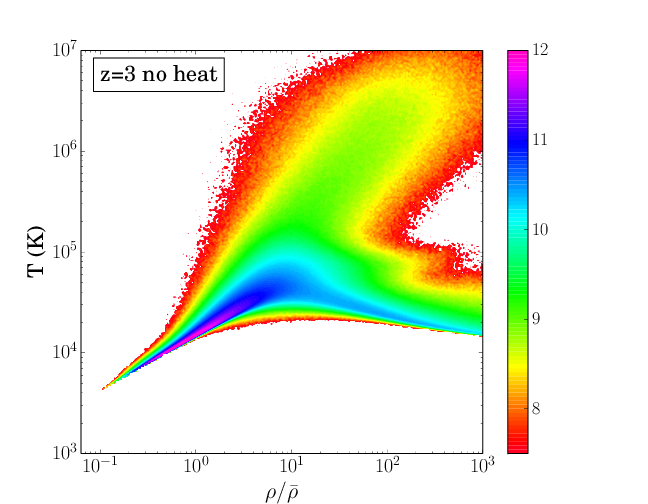
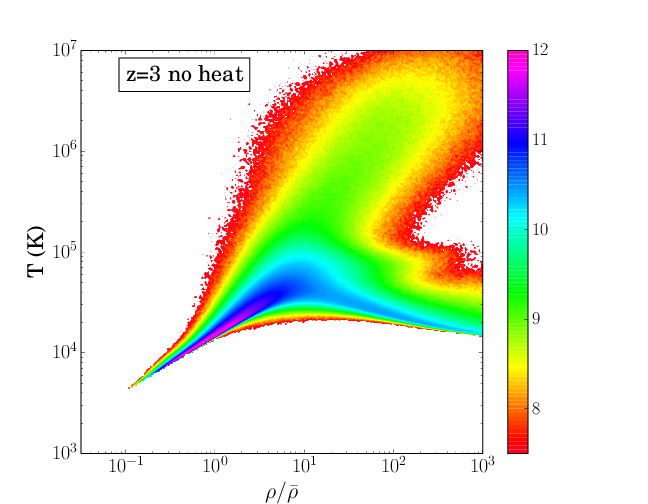
AL:update some fig with high resolution

diff --git a/window.tex b/window.tex
@@ -301,8 +301,8 @@ Substituting Eqs.~\eqref{eq:mean_heat} and \eqref{eq:mean_free_path} into Eq.~\e
 
 \begin{figure}[h]
 \centering
-% \includegraphics[width = .45\textwidth ]{window_gal_qso}
-\includegraphics[width = .45\textwidth ]{window_gal_qso}
+ \includegraphics[width = .45\textwidth ]{window_gal_qso}
+
 \caption{Window function for TeV blazar heating from $z=1$ (solid lines), $z=2$ (dashed lines) and $z=4$ (dotted lines) for the galaxy bias model (red) and the quasar bias model (blue).  The arrows indicate the minimal and maximal \ALc{comoving} wavenumber modeled in the simulation.}
 \label{fig:window}
 \end{figure}
@@ -365,17 +365,17 @@ The probability distribution function clearly highlights the impact of clusterin
 % \includegraphics[width = .42\textwidth ]{T_rho_z1_gal2_ok.png}
 % \includegraphics[width = .42\textwidth ]{T_rho_z1_qso4_ok.png}
 \includegraphics[trim=.5cm 0cm 3cm .5cm, clip ,width = .32\textwidth ]{T_rho_noheat_z4.png}
-\includegraphics[trim=.5cm 0cm 3cm .5cm, clip ,width = .32\textwidth ]{T_rho_gal_z4_256.png}
-\includegraphics[trim=.5cm 0cm 3cm .5cm, clip ,width = .32\textwidth ]{T_rho_qso_z4_256.png}
+\includegraphics[trim=.5cm 0cm 3cm .5cm, clip ,width = .32\textwidth ]{T_rho_gal_z4_512.png}
+\includegraphics[trim=.5cm 0cm 3cm .5cm, clip ,width = .32\textwidth ]{T_rho_qso_z4_512.png}
 \includegraphics[trim=.5cm 0cm 3cm .5cm, clip ,width = .32\textwidth ]{T_rho_noheat_z3.png}
-\includegraphics[trim=.5cm 0cm 3cm .5cm, clip ,width = .32\textwidth ]{T_rho_gal_z3_256.png}
-\includegraphics[trim=.5cm 0cm 3cm .5cm, clip ,width = .32\textwidth ]{T_rho_qso_z3_256.png}
+\includegraphics[trim=.5cm 0cm 3cm .5cm, clip ,width = .32\textwidth ]{T_rho_gal_z3_512.png}
+\includegraphics[trim=.5cm 0cm 3cm .5cm, clip ,width = .32\textwidth ]{T_rho_qso_z3_512.png}
 \includegraphics[trim=.5cm 0cm 3cm .5cm, clip ,width = .32\textwidth ]{T_rho_noheat_z2.png}
 \includegraphics[trim=.5cm 0cm 3cm .5cm, clip ,width = .32\textwidth ]{T_rho_gal_z2_256.png}
-\includegraphics[trim=.5cm 0cm 3cm .5cm, clip ,width = .32\textwidth ]{T_rho_qso_z2_256.png}
+\includegraphics[trim=.5cm 0cm 3cm .5cm, clip ,width = .32\textwidth ]{T_rho_qso_z2_512.png}
 \includegraphics[trim=.5cm 0cm 3cm .5cm, clip ,width = .32\textwidth ]{T_rho_noheat_z1.png}
 \includegraphics[trim=.5cm 0cm 3cm .5cm, clip ,width = .32\textwidth ]{T_rho_gal_z1_256.png}
-\includegraphics[trim=.5cm 0cm 3cm .5cm, clip ,width = .32\textwidth ]{T_rho_qso_z1_256.png}
+\includegraphics[trim=.5cm 0cm 3cm .5cm, clip ,width = .32\textwidth ]{T_rho_qso_z1_512.png}
 \caption{Mass weighted temperature - density relation at $z=4,3,2,1$ (from top to bottom) for the simulations with \ALc{no heating (left) inhomogeneous heating following galaxy bias (middle) and the quasar bias (right)}. The overlying grey contours show the corresponding $T-\rho_{\mathrm{gas}}$ relation for uniform blazar heating \citep{2012MNRAS.423..149P} for the same mass range. \ALc{The color scheme follows is logarithmic. This is the medium resolution simulation}}
 \label{fig:T_rho}
 \end{figure*}
@@ -438,29 +438,29 @@ We detail the derivation of the window function of Eq.~\eqref{eq:window}. We sta
 \section {Newtonian case}\label{sec:windon_newt}
 \subsection {Fluctuations with respect to the mean heating rate}
 
-The TeV flux received (in erg s$^{-1}$ cm$^{-2}$) at position $\mathbf{x}$, at a given energy, is given by the sum over all the sources within a radius $r\leqslant r_{\mathrm{max}}$.
+The TeV flux received (in erg s$^{-1}$ cm$^{-2}$) at position $\mathbf{x}$, at a given energy, is given by the sum over all the sources \ALc{\sout{within a radius $r\leqslant r_{\mathrm{max}}$}}.
 \begin{equation}
   \label{eq:flux_recu0}
   J(\mathbf{x})=
-  \int_{0}^{2\pi}d\phi\int_{0}^{\pi}\sin\theta d\theta\int_0^{r_{\mathrm{max}}}|\mathbf{x}'-\mathbf{x}|^2 d^3|\mathbf{x}'-\mathbf{x}|
+  \int_{0}^{2\pi}d\phi\int_{0}^{\pi}\sin\theta d\theta\int_0^{\infty}|\mathbf{x}'-\mathbf{x}|^2 d^3|\mathbf{x}'-\mathbf{x}|
   \frac{\mathcal{E}(\mathbf{x}') }{4\pi |\mathbf{x}'-\mathbf{x}|^2} e^{-\tau}
-  =\int_{\Omega} d\Omega\int_0^{r_{\mathrm{max}}} dr \frac{\mathcal{E}(\mathbf{r}+\mathbf{x}) }{4\pi } e^{- r/D_{\mathrm{pp}}},
+  =\int_{\Omega} d\Omega\int_0^{\infty} dr \frac{\mathcal{E}(\mathbf{r}+\mathbf{x}) }{4\pi } e^{- r/D_{\mathrm{pp}}},
 \end{equation}
 where the emissivity $\mathcal{E}$ is an energy per unit time, per unit volume, $\tau=|\mathbf{x}'-\mathbf{x}|/D_{\mathrm{pp}}$ is the optical depth along the line of sight and $D_{\mathrm{pp}}$ is the mean free path for pair production, \ALc{which is constant over the volume}. In the last step, we introduced $\mathbf{r}=\mathbf{x}'-\mathbf{x}$, $d\Omega=\sin\theta d\theta d\phi$. The differential heating rate is defined as $d\dot{Q}(\mathbf{x})\equiv dJ(\mathbf{x})/D_{\mathrm{pp}}$ such that the volume-integrated heating rate $\dot{Q}$ and its average (in units of erg cm$^{-3}$ s$^{-1}$) are given by 
 \begin{equation}
   \label{eq:heating_rate0}
   \dot{Q}(\mathbf{x})=
-  \frac{1}{4\pi}   \int_{\Omega}d\Omega\int_0^{r_{\mathrm{max}}} dr \mathcal{E}(\mathbf{r}+\mathbf{x})\, \frac{e^{-r/D_{\mathrm{pp}}}}{D_{\mathrm{pp}}},\quad\mbox{and}\quad
-  \bar{\dot{Q}}= \frac{1}{4\pi}   \int_{\Omega}d\Omega\int_0^{r_{\mathrm{max}}} dr \bar{\mathcal{E}} \,\frac{e^{-r/D_{\mathrm{pp}}}}{D_{\mathrm{pp}}} ,
+  \frac{1}{4\pi}   \int_{\Omega}d\Omega\int_0^{\infty} dr \mathcal{E}(\mathbf{r}+\mathbf{x})\, \frac{e^{-r/D_{\mathrm{pp}}}}{D_{\mathrm{pp}}},\quad\mbox{and}\quad
+  \bar{\dot{Q}}= \frac{1}{4\pi}   \int_{\Omega}d\Omega\int_0^{\infty} dr \bar{\mathcal{E}} \,\frac{e^{-r/D_{\mathrm{pp}}}}{D_{\mathrm{pp}}} ,
 \end{equation}
 \ALc{\sout{where $D_{\mathrm{pp}}$ is the mean free path before the gamma-rays pair-produce, which is constant over the volume.}}
 The heating rate fluctuations at a given point $\mathbf{x}$ are then given by 
 \begin{eqnarray}
   \label{eq:heat_fluc_newt0}
   \delta_H(\mathbf{x})&=&\frac{\dot{Q}(\mathbf{x})-\bar{\dot{Q}}}{\bar{\dot{Q}}}=
-  \frac{1}{4\pi\bar{\dot{Q}}D_{\mathrm{pp}}} \int_{\Omega}d\Omega\int_0^{r_{\mathrm{max}}} dr 
+  \frac{1}{4\pi\bar{\dot{Q}}D_{\mathrm{pp}}} \int_{\Omega}d\Omega\int_0^{\infty} dr 
   [\mathcal{E}(\mathbf{r}+\mathbf{x})-\bar{\mathcal{E}}]e^{-r/D_{\mathrm{pp}}} \nonumber\\
-  &=&\frac{1}{4\pi\bar{\dot{Q}}D_{\mathrm{pp}}}\int_{\Omega}d\Omega\int_0^{r_{\mathrm{max}}} dr \delta_E(\mathbf{r}+\mathbf{x})\bar{\mathcal{E}}\,e^{-r/D_{\mathrm{pp}}} ,
+  &=&\frac{1}{4\pi\bar{\dot{Q}}D_{\mathrm{pp}}}\int_{\Omega}d\Omega\int_0^{\infty} dr \delta_E(\mathbf{r}+\mathbf{x})\bar{\mathcal{E}}\,e^{-r/D_{\mathrm{pp}}} ,
 \end{eqnarray}
 where $\delta_E$ are the fluctuations of the TeV photon emissivity. %\Pc{\sout{Finally we assume that the fluctuations in the TeV emissivity follow the DM density fluctuations, i.e., $\delta_E=\delta$. This is justified by the tight relation between the mass of the central black hole and the stellar mass of the bulge of the host galaxy.}}
 
@@ -500,19 +500,19 @@ where $\tilde{W}(k)$ is the Fourier transform of $C r^{-2} e^{-r/D_{\mathrm{pp}}
 
 \begin{equation}
   \label{eq:heat_fluc_newt2}
-  \tilde{\delta}_H(\mathbf{k})=\frac{1}{4\pi\bar{\dot{Q}}D_{\mathrm{pp}}} \int_{\Omega}d\Omega\int_0^{r_{\mathrm{max}}}  dr \bar{ \mathcal{E}} e^{- r/D_{\mathrm{pp}}}  \tilde{\delta}_E(\mathbf{k}) e^{-i\mathbf{k}\cdot{\mathbf{r}}}.
+  \tilde{\delta}_H(\mathbf{k})=\frac{1}{4\pi\bar{\dot{Q}}D_{\mathrm{pp}}} \int_{\Omega}d\Omega\int_0^{\infty}  dr \bar{ \mathcal{E}} e^{- r/D_{\mathrm{pp}}}  \tilde{\delta}_E(\mathbf{k}) e^{-i\mathbf{k}\cdot{\mathbf{r}}}.
 \end{equation}
 Introducing $\mu=\cos\theta$, where $\theta$ is the angle between the wave vector and the line of sight, and assuming statistical isotropy and homogeneity, Eq.~\eqref{eq:heat_fluc_newt2} can be simplified as follows,
 \begin{eqnarray}
   \label{eq:heat_fluc_newt3}
   \tilde{\delta}_H(k)&=&  
-  \frac{1}{2\bar{\dot{Q}}D_{\mathrm{pp}}} \int_{-1}^{1} d\mu \int_0^{r_{\mathrm{max}}}dr  \bar{\mathcal{E}} e^{-r/D_{\mathrm{pp}}} \tilde{\delta}_E(k) e^{-ikr\mu}
-  =\tilde{\delta}_E(k)\frac{\bar{\mathcal{E}}}{D_{\mathrm{pp}} \bar{\dot{Q}}}\int_0^{r_{\mathrm{max}}} \frac{\sin(kr)}{kr} e^{-r/D_{\mathrm{pp}}}   dr\\ \nonumber
+  \frac{1}{2\bar{\dot{Q}}D_{\mathrm{pp}}} \int_{-1}^{1} d\mu \int_0^{\infty}dr  \bar{\mathcal{E}} e^{-r/D_{\mathrm{pp}}} \tilde{\delta}_E(k) e^{-ikr\mu}
+  =\tilde{\delta}_E(k)\frac{\bar{\mathcal{E}}}{D_{\mathrm{pp}} \bar{\dot{Q}}}\int_0^{\infty} \frac{\sin(kr)}{kr} e^{-r/D_{\mathrm{pp}}}   dr\\ \nonumber
  &=&\tilde{\delta}_E(k)\frac{\bar{\mathcal{E}}}{k D_{\mathrm{pp}}\bar{\dot{Q}}} \arctan\left(k D_{\mathrm{pp}}\right)
   =\tilde{\delta}(k)\frac{\bar{\mathcal{E}}}{k D_{\mathrm{pp}} \bar{\dot{Q}}} \arctan\left(k D_{\mathrm{pp}}\right)
   = \tilde{\delta}(k)\frac{\arctan\left(k D_{\mathrm{pp}}\right)}{k D_{\mathrm{pp}}} .
 \end{eqnarray}
-In the last step, we have assumed for simplicity that the fluctuations in the TeV emissivity follow the DM density fluctuations, i.e., $\delta_E=\delta$. While we may justify this by the tight relation between the mass of the central black hole and the stellar mass of the bulge of the host galaxy\citep{2004ApJ...604L..89H}, we generalize the mapping between emissivity and DM fluctuations in Appendix~\ref{sec:window_complete}. Figure~\ref{fig:window_newt} shows  window functions with different absorption coefficients in a purely Newtonian universe. The solid red line shows a case with no absorption, the dashed green line shows a case with $D_{\mathrm{pp}}=10$ Mpc.  In the former case, large scale structure has the strongest impact on heating, as larger regions have more sources. When absorption is present,  the impact of large scale structure (i.e. low wave numbers $k$) remains constant as distant sources are absorbed. For scales equal to or larger than the cutoff, heating fluctuations follow density fluctuations and overdense regions get more heat. At smaller scales, the density structure has less impact on the heating, unless a strong overdensity is present.  
+In the last step, we have assumed for simplicity that the fluctuations in the TeV emissivity follow the DM density fluctuations, i.e., $\delta_E=\delta$. While we may justify this by the tight relation between the mass of the central black hole and the stellar mass of the bulge of the host galaxy \citep{2004ApJ...604L..89H}, we generalize the mapping between emissivity and DM fluctuations in Appendix~\ref{sec:window_complete}. Figure~\ref{fig:window_newt} shows  window functions with different absorption coefficients in a purely Newtonian universe. The solid red line shows a case with no absorption, the dashed green line shows a case with $D_{\mathrm{pp}}=10$ Mpc.  In the former case, large scale structure has the strongest impact on heating, as larger regions have more sources. When absorption is present,  the impact of large scale structure (i.e. low wave numbers $k$) remains constant as distant sources are absorbed. For scales equal to or larger than the cutoff, heating fluctuations follow density fluctuations and overdense regions get more heat. At smaller scales, the density structure has less impact on the heating, unless a strong overdensity is present.  
 
 \begin{figure}
 \centering
